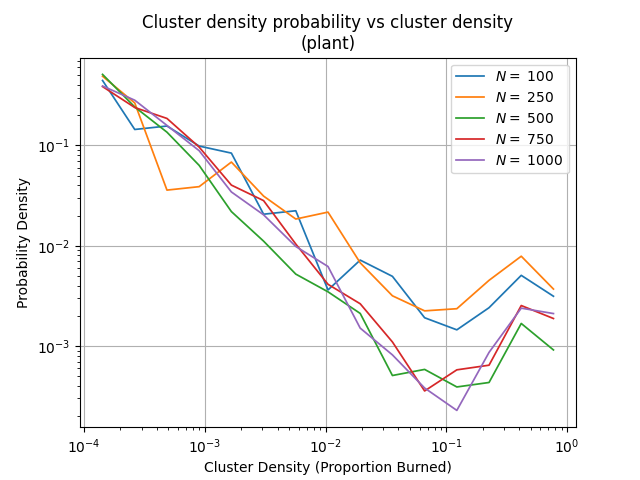
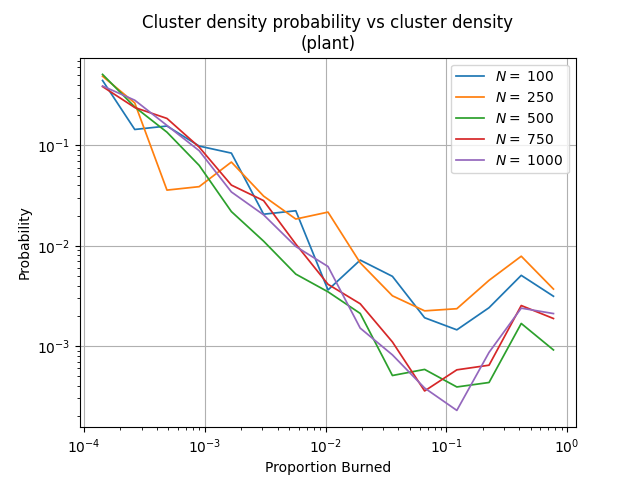
Changed x/y labels for density

Changed region(s): [[0.3125, 0.9375, 0.7188, 1.0], [0.0312, 0.375, 0.0625, 0.625]]

diff --git a/ForestFirePercolation/src/plots/cluster_size_plot.py b/ForestFirePercolation/src/plots/cluster_size_plot.py
@@ -44,8 +44,8 @@ class ClusterSizePlot:
         ax.set_yscale('log')
 
         # Set axis labels
-        ax.set_xlabel('Cluster Density (Fraction)')
-        ax.set_ylabel('Probability Density')
+        ax.set_xlabel('Proportion Burned')
+        ax.set_ylabel('Probability')
         return bin_centers, normalized_hist, ax
 
     def old_plot_power_law(self, bin_centers, normalized_hist, ax, power_law_plotted):
@@ -133,8 +133,8 @@ class ClusterSizePlot:
         """
         label = r'$N =$ ' + str(self.system_size)
         self.plot_cluster_size_probability_vs_cluster_size(self.cluster_sizes, ax, label)
-        ax.set_xlabel('Cluster Density (Proportion Burned)')
-        ax.set_ylabel('Probability Density')
+        ax.set_xlabel('Proportion Burned')
+        ax.set_ylabel('Probability')
         ax.legend()
         return ax
 
@@ -147,8 +147,8 @@ class ClusterSizePlot:
         label = r'$N =$ ' + str(self.system_size)
         bin_centers, normalized_hist, ax = self.plot_cluster_size_probability_vs_cluster_size(self.cluster_sizes, ax, label)
         self.plot_power_law(bin_centers, normalized_hist, ax, label_power_law)
-        ax.set_xlabel('Cluster Density (Proportion Burned)')
-        ax.set_ylabel('Probability Density')
+        ax.set_xlabel('Proportion Burned')
+        ax.set_ylabel('Probability')
         ax.legend()
         return ax
 
@@ -224,8 +224,8 @@ class ClusterSizePlot:
             self.plot_power_law(bin_centers, normalized_hist, ax, label_power_law)
         # ax.set_xlabel(r'Density $d$')
         # ax.set_ylabel(r'$P_N$')
-        ax.set_xlabel('Cluster Density (Proportion Burned)')
-        ax.set_ylabel('Probability Density')
+        ax.set_xlabel('Proportion Burned')
+        ax.set_ylabel('Probability')
         ax.set_xscale('log')
         ax.set_yscale('log')
         ax.legend()

diff --git a/ForestFirePercolation/src/plots/plot_generator.py b/ForestFirePercolation/src/plots/plot_generator.py
@@ -208,12 +208,15 @@ class PlotGenerator:
         title2 = "Percolation probability vs forest density\n(env_index 0.75)"
         title3 = "Percolation probability vs forest density\n(env_index 0.50)"
         title4 = "Percolation probability vs forest density around the critical point\n(env_index 0.75)"
+        title5 = "Percolation probability vs forest density around the critical point\n(env_index 0.50)"
         self.generate_single_size_multiple_settings_plot(env_index_dict, title, '300', 'single_percolation_env_index')
         self.generate_percolation_multi_plot(env_index_results, title2, 'multi_percolation_env_index_075',
                                              self.critical_points['env_index'])
         self.generate_percolation_multi_plot(env_index_050_results, title3, 'multi_percolation_env_index_050')
         self.generate_critical_point_multi_plot(env_index_results, title4, 'multi_percolation_critical_env_index',
                                                 self.critical_points['env_index'])
+        self.generate_critical_point_multi_plot(env_index_050_results, title5, 'multi_percolation_critical_env_050',
+                                                self.critical_points['env_050'])
 
     def generate_env_index_050_and_wind_experiment_plots(self):
         """

diff --git a/ForestFirePercolation/src/results/result_filter.py b/ForestFirePercolation/src/results/result_filter.py
@@ -219,7 +219,7 @@ class ResultFilter:
         results = [base_results, wind_results, env_075_results, env_050_results, plant_results]
         critical_points = [critical_point_dict['base'], critical_point_dict['wind'], critical_point_dict['env_index'],
                            critical_point_dict['env_050'], critical_point_dict['plant']]
-        label_suffixes = [' (base)', ' (wind)', ' (env 0.75)', '(env 0.5)', ' (plants)']
+        label_suffixes = [' (base)', ' (wind)', ' (env 0.75)', ' (env 0.5)', ' (plants)']
         results_dict = {
             'results': results,
             'critical_points': critical_points,

diff --git a/ForestFirePercolation/src/plots/percolation_plot.py b/ForestFirePercolation/src/plots/percolation_plot.py
@@ -40,7 +40,8 @@ class PercolationPlot:
             interpolator = interp1d(probabilities, densities, kind='linear', bounds_error=False,
                                     fill_value="extrapolate")
             interpolated_density = interpolator(0.5)
-            ax.scatter(interpolated_density, 0.5, color=line.get_color(), s=50, zorder=5)
+            if 0.0 <= interpolated_density <= 1.0:
+                ax.scatter(interpolated_density, 0.5, color=line.get_color(), s=50, zorder=5)
         return ax
 
     def save_amount_percolated_per_density(self, results):
